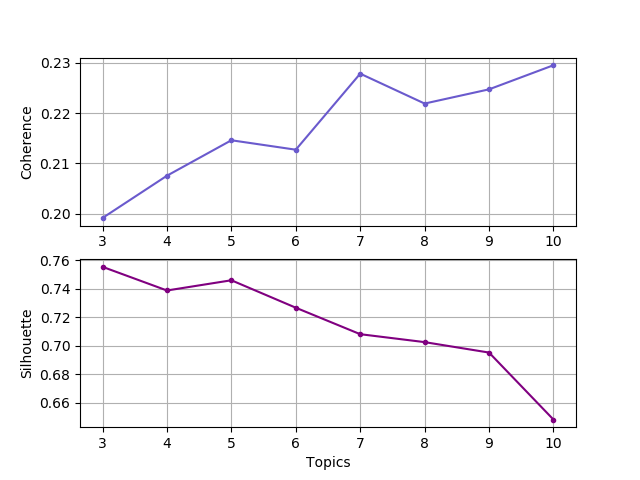
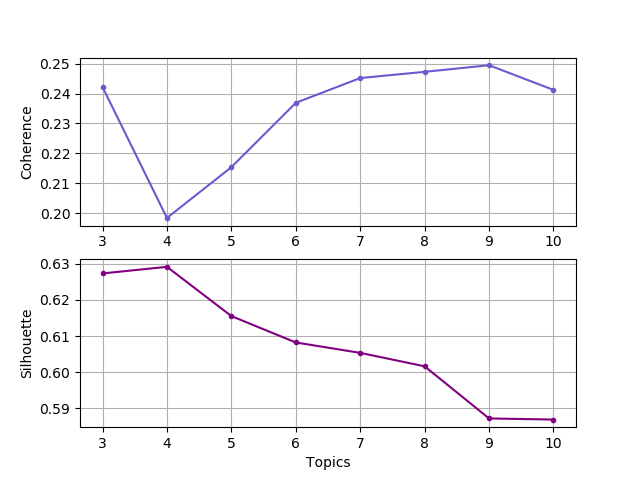
novos gráficos e mais tentativas de melhorar esse modelo

diff --git a/src/models/topics.py b/src/models/topics.py
@@ -21,7 +21,6 @@ from utils import *
 """
 constants
 """
-# UNIQUE_WORDS_THRESHOLD: int = 10
 N_MOST_FREQUENT_TO_REMOVE: int = 110
 
 """
@@ -40,7 +39,13 @@ def get_document_topics(lda_model, documents: list, id: int) -> list:
 	bow = dictionary.doc2bow(documents[id])
 	topics = lda_model.get_document_topics(bow)
 	topics.sort(key=(lambda pair: pair[1]), reverse=True) # sort by highest to lowest probabilities
+	return topics
 
+
+def get_paragraph_topics(lda_model, tokens: list) -> list:
+	bow = dictionary.doc2bow(tokens)
+	topics = lda_model.get_document_topics(bow)
+	topics.sort(key=(lambda pair: pair[1]), reverse=True) # sort by highest to lowest probabilities
 	return topics
 
 """
@@ -74,29 +79,40 @@ def get_topic_dists_dataframe(lda_model) -> pd.DataFrame:
 	assert len(vws) == len(topic_dists)
 	return vws
 
+def get_paragraph_topic_dists_dataframe(lda_model):
+	topic_dists: pd.Series = vwp.reset_index()["index"].apply(lambda i: get_paragraph_topics(lda_model, vwp.at[i, "text"]))
+	topic_dists.sort_index(axis=0)
+	vwps = pd.DataFrame({f"Topic {t}":[] for t in range(lda_model.num_topics)})
+	vwps.sort_index(axis=0)
+	lines = topic_dists.apply(lambda t: transform_topic_distribution(t, lda_model.num_topics))
+	vwps = vwps.append(list(lines), ignore_index=True)
+	assert len(vwps) == len(topic_dists)
+	return vwps
+
 """
 compute average silhouette score
 """
 def compute_avg_silhouette(topic_df: pd.DataFrame) -> float:
 	points = topic_df.values
-	dominant_topics = points.argmax(axis=1)
+	mains = points.argmax(axis=1)
 
-	return silhouette_score(points, dominant_topics)
+	return silhouette_score(points, mains)
 
 """
 plot silhouette scores per letter in corpus
+returns: average silhouette score
 """
-def plot_silhouette(lda_model, corpus) -> None:
+def plot_silhouette(lda_model, corpus) -> float:
 	n = 0
 	vws = get_topic_dists_dataframe(lda_model)
 	points = vws.values # matrix of shape (n_samples, n_topics)
-	dominant_topics = points.argmax(axis=1) # array of dominant topics
+	mains = points.argmax(axis=1) # array of dominant topics
 	fig, ax1 = plt.subplots(1, 1)
-	samples_silhouette_values = silhouette_samples(points, dominant_topics)
+	samples_silhouette_values = silhouette_samples(points, mains)
 	y_lower = 10 # ?
 
 	for i in range(lda_model.num_topics):
-		ith_topic_silhouette_values = samples_silhouette_values[dominant_topics == i]
+		ith_topic_silhouette_values = samples_silhouette_values[mains == i]
 		ith_topic_silhouette_values.sort()
 		size_topic_i = ith_topic_silhouette_values.shape[0]
 		y_upper = y_lower + size_topic_i
@@ -115,13 +131,14 @@ def plot_silhouette(lda_model, corpus) -> None:
 	ax1.set_xticks([-0.1, 0, 0.2, 0.4, 0.6, 0.8, 1]) # ?
 	plt.savefig(f"{SILHOUETTE_PLOTS_PATH}silhouette_lda{lda_model.num_topics}.png")
 	print("New silhouette plot generated and saved.")
+	plt.clf()
 
 	return silhouette_avg
 
 """
-function that saves most representative letters of each topic to text files for validation
+function that saves most representative letters of each topic to text files for manual validation
 """
-def save_representative_letters(lda_model, n_letters: int = 3):
+def save_representative_letters(lda_model, n_letters: int = 3) -> None:
 	vws = get_topic_dists_dataframe(lda_model)
 	vwo = pd.read_csv(VW_ORIGINAL, index_col="index")
 	vws["main"] = np.argmax([vws[f"Topic {t}"] for t in range(lda_model.num_topics)], axis=0)
@@ -133,14 +150,14 @@ def save_representative_letters(lda_model, n_letters: int = 3):
 		for i in range(n_letters):
 			letter_id = vws_t.index[i]
 			vwo_row: pd.Series = vwo.loc[letter_id]
-			vwo_row.to_csv(f"{LDA_LETTERS_PATH}/lda{lda_model.num_topics}_topic{t}_letter{i}.csv", sep=":", header=True)
+			vwo_row.to_csv(f"{LDA_LETTERS_PATH}lda{lda_model.num_topics}_topic{t}_letter{i}.csv", sep=":", header=True)
 
 	print("Saved most representative letters for LDA model.")
 
 """
 create dictionary and corpus of bags-of-words
 """
-def build_letter_corpus(vw: pd.DataFrame):
+def build_letter_corpus(vw: pd.DataFrame) -> (list, list, corpora.dictionary.Dictionary):
 	vw["text"] = vw["text"].apply(lambda tokens: [t for t in tokens if t != PARAGRAPH_DELIM]) # remove paragraph delim
 
 	vw = vw.sort_index(axis=0)
@@ -165,24 +182,26 @@ def build_letter_corpus(vw: pd.DataFrame):
 """
 function that builds an LDA model and returns the model and some evaluation metrics
 """
-def model(n_topics, saved=False):
+def model(n_topics, beta=None, saved=False) -> dict:
 	print(f"Building LDA model for {n_topics} topics.")
+	suffix = f"beta{beta}" if beta is not None else ""
 
 	if saved:
-		lda = LdaMulticore.load(f"{TRAINED_LDA}{n_topics}")
-		print(f"Trained LDA model with {n_topics} loaded successfully.")
+		lda = LdaMulticore.load(f"{TRAINED_LDA}{n_topics}{suffix}")
+		print(f"Trained LDA model with {n_topics} topics loaded successfully.")
 
 	else:
 		lda = LdaMulticore(
 			corpus,
 			num_topics=n_topics,
 			id2word=dictionary,
-			passes=20,
+			passes=10,
+			eta=beta,
 			random_state=1,
 			workers=3
 		)
 
-		lda.save(f"{TRAINED_LDA}{n_topics}")
+		lda.save(f"{TRAINED_LDA}{n_topics}{suffix}")
 		print(f"LDA model with {n_topics} topics trained and saved successfully.")
 
 	"""
@@ -192,7 +211,6 @@ def model(n_topics, saved=False):
 	print(f"Coherence score: {coherence}") # the higher the better
 
 	avg_silhouette = plot_silhouette(lda, corpus)
-	save_representative_letters(lda, 5)
 
 	"""
 	prepare and save pyLDAvis visualization
@@ -210,7 +228,7 @@ def model(n_topics, saved=False):
 """
 function to compare LDA models built with the given N values
 """
-def compare_models(candidate_n_topics: list):
+def compare_models(candidate_n_topics: list) -> pd.DataFrame:
 	results = pd.DataFrame({"topics": [], "coherence": [], "silhouette": []})
 
 	for n_topics in candidate_n_topics:
@@ -225,13 +243,12 @@ def compare_models(candidate_n_topics: list):
 	results["topics"] = pd.to_numeric(results["topics"], downcast="integer")
 
 	log(results, "comparison_results")
-	
 	return results
 
 """
 plot coherence and silhouette scores for candidate models
 """
-def plot_metrics(results: list):
+def plot_metrics(results: list) -> None:
 	fig, (ax1, ax2) = plt.subplots(2, 1)
 	ax1.plot(results["topics"], results["coherence"], label="coherence score", marker=".", color="slateblue")
 	ax2.plot(results["topics"], results["silhouette"], label = "avg silhouette score", marker=".", color="purple")
@@ -242,10 +259,12 @@ def plot_metrics(results: list):
 	ax2.grid(True)
 	plt.savefig(f"{GRAPHS_PATH}metrics_per_num_topics.png")
 
-
-def save_topic_wordclouds(lda_model):
+"""
+generates and saves wordclouds per topic of a given LDA model
+"""
+def save_topic_wordclouds(lda_model) -> None:
 	for i in range(lda_model.num_topics):
-		letters: pd.Series = vw[vw["dominant_topic"] == i]["text"]
+		letters: pd.Series = vw[vw["main"] == i]["text"]
 		all_letters = concat_all_letters(letters)
 		wordcloud = WordCloud(width=500, height=400, background_color="white", max_words=100).generate(all_letters)
 		plt.imshow(wordcloud, interpolation="bilinear")
@@ -254,6 +273,96 @@ def save_topic_wordclouds(lda_model):
 		plt.clf()
 
 	print("Saved topic wordclouds for LDA model.")
+
+
+"""
+function that includes main topic column in vw dataframe, or -1 if all topics have the same probability
+"""
+def set_main_topics(vw: pd.DataFrame, vws: pd.DataFrame) -> (pd.DataFrame, pd.DataFrame):
+
+	# function that verifies if all elements in an array are equal
+	def equal_values(v: np.ndarray) -> bool:
+		v = np.sort(v, axis=0)
+		return v[0] == v[len(v)-1] # if first and last elements of sorted array are equal, the array only has equal elements
+
+	vws["main"] = np.argmax([vws[f"Topic {t}"] for t in range(n_topics)], axis=0)
+	prob_cols: list = [col for col in vws.columns if "Topic" in col]
+	vws.loc[vws.apply(lambda row: equal_values([row[col] for col in prob_cols]), axis=1), "main"] = -1
+
+	vw["main"] = vws["main"]
+	return vw, vws
+
+"""
+function that makes a bar graph of topic frequencies per years
+receives: vw dataframe with "main" topic column
+"""
+def plot_topics_per_year(vw: pd.DataFrame) -> None:
+	assert "main" in vw.columns
+
+	yearly: pd.DataFrame = vw[(vw["main"] != -1) & vw["year"].notnull()][["year", "main"]]
+	yearly = yearly.sort_values(by="year")
+	yearly["year"] = pd.to_numeric(yearly["year"], downcast="integer")
+
+	for i in range(n_topics):
+		yearly[str(i)] = yearly["year"].apply(lambda y: len(yearly[(yearly["year"] == y) & (yearly["main"] == i)]))
+
+	yearly = yearly.drop(["main"], axis=1).drop_duplicates(subset=["year"], keep="first")
+
+	fig, ax = plt.subplots(1, 1, figsize=(14,7))
+
+	xrange = range(len(years))
+	years = list(yearly["year"])
+	colors = ["indianred", "gold", "lightseagreen"]
+	labels = [f"Topic {i}" for i in range(n_topics)]
+
+	ax.bar(x=xrange, height=yearly["0"], width=0.8, bottom=0, color=colors[0], align="center", label=labels[0])
+	ax.bar(x=xrange, height=yearly["1"], width=0.8, bottom=list(yearly["0"]), color=colors[1], align="center", label=labels[1])
+	ax.bar(x=xrange, height=yearly["2"], width=0.8, bottom=list(yearly["0"]+yearly["1"]), color=colors[2], align="center", label=labels[2])
+	# TODO: make the damn loop work ?????
+
+	plt.xticks(ticks=range(len(years)), labels=years, rotation="vertical")
+	plt.legend()
+	plt.grid(True, axis="x")
+	plt.savefig(f"{GRAPHS_PATH}topic_frequency_per_year.png")
+	plt.clf()
+
+"""
+function that makes 12 pie charts for topic frequencies in letters to the top 12 recipients
+receives: vw dataframe with "main" topic column
+"""
+def plot_topics_per_recipient(vw: pd.DataFrame) -> None:
+	assert "main" in vw.columns
+
+	recs = vw[(vw["recipient"].notnull()) & (vw["main"] != -1)][["recipient", "main"]]
+
+	for i in range(n_topics):
+		recs[str(i)] = recs["recipient"].apply(lambda rec: len(recs[(recs["recipient"] == rec) & (recs["main"] == i)]))
+
+	recs = recs.drop(["main"], axis=1).drop_duplicates(subset=["recipient"], keep="first")
+
+	top_recs = vw[vw["recipient"].notnull()][["recipient"]]
+	top_recs = top_recs.reset_index().groupby(["recipient"]).count()[["index"]].rename(columns={"index": "num_letters"})
+	top_recs = top_recs.sort_values(by="num_letters", ascending=False)
+
+	recs = recs.merge(top_recs, on="recipient", how="left")
+	top_recs_list = list(recs.sort_values(by="num_letters", ascending=False)["recipient"][:12])
+
+	fig, axs = plt.subplots(3, 4, figsize=(14, 9))
+	colors = ["indianred", "gold", "lightseagreen"]
+	columns = [str(i) for i in range(n_topics)]
+
+	it = 0
+	for i in range(3):
+		for j in range(4):
+			rec: str = top_recs_list[it]
+			print(rec)
+			row = recs[recs["recipient"] == rec][columns]
+			values = [int(row[col]) for col in row.columns]
+			axs[i,j].pie(values, colors=colors, labels=columns, labeldistance=0.5, textprops={"color": "white"})
+			axs[i,j].set_xlabel(rec)
+			it += 1
+
+	plt.savefig(f"{GRAPHS_PATH}topic_frequency_per_recipient.png")
 
 
 # ----------------------------------------------------------------------------------------------
@@ -265,9 +374,8 @@ letters, corpus, dictionary = build_letter_corpus(vw)
 """
 compare models
 """
-results = compare_models([3, 4, 5, 6, 7, 8, 9, 10])
-plot_metrics(results)
-
+# results = compare_models([3, 4, 5, 6, 7, 8, 9, 10])
+# plot_metrics(results)
 
 """
 evaluate 3-topic model
@@ -275,13 +383,16 @@ evaluate 3-topic model
 
 n_topics = 3 # selected model
 lda = model(n_topics, saved=True)["model"]
-# lda = LdaMulticore.load(f"{TRAINED_LDA}{n_topics}")
+
 vws = get_topic_dists_dataframe(lda)
-vws["dominant_topic"] = np.argmax([vws[f"Topic {t}"] for t in range(n_topics)], axis=0)
+vw, vws = set_main_topics(vw, vws)
 
 vw = vw[["recipient", "year", "place", "text"]].copy()
 dictionary_tokens: list = list(dictionary.token2id.keys())
 vw["text"] = vw["text"].apply(lambda tokens: [t for t in tokens if t in dictionary_tokens]) # remove words not in dict (most frequent, removed earlier)
-vw["dominant_topic"] = vws["dominant_topic"]
 
-save_topic_wordclouds(lda)
+
+# save_representative_letters(lda, 5)
+# save_topic_wordclouds(lda)
+# plot_topics_per_year(vw)
+# plot_topics_per_recipient(vw)

diff --git a/src/features/preprocessing.py b/src/features/preprocessing.py
@@ -25,19 +25,8 @@ def remove_brackets(text: str) -> str:
 		return re.sub(brackets, "", text)
 
 """
-function to remove non-alphabetic symbols from string
+function to replace non-alphabetic symbols in string with spaces
 """
-def remove_non_alphabetic(text: str, replace_specifics=True, remove_rest=True) -> str:
-	if pd.notnull(text):
-		if replace_specifics:
-			to_replace = r'[\-—\+\n\r\t\’”]'
-			text = re.sub(to_replace, " ", text) # replace these symbols with spaces
-		if remove_rest:
-			to_remove = r'[^a-zA-Z§ ]'
-			text = re.sub(to_remove, "", text) # remove all unwanted symbols left
-		text = re.sub(r'r) +', " ", text) # remove extra whitespace
-		return text
-	
 def replace_non_alphabetic(text: str):
 	to_replace = r'[\-—\+\n\r\t\’”]'
 	text = re.sub(to_replace, " ", text) # replace these symbols with spaces
@@ -45,6 +34,9 @@ def replace_non_alphabetic(text: str):
 
 	return text
 
+"""
+function to remove non alphabetic symbols from tokens in tokens list
+"""
 def remove_non_alphabetic(tokens: list):
 	to_remove = r'[^a-zA-Z§ ]'
 	tokens = [re.sub(to_remove, "", t) for t in tokens]
@@ -122,9 +114,13 @@ def remove_stopwords(tokens: list) -> list:
 		return tokens
 	
 	# based on nltk english stopwords list but modified
-	stopwords = ['most', 'over', 'until', "shouldnt", 'only', 'all', 'o', 'herself', 'same', 'ma', 'i', 'will', 'now', 'these', 'needn', 'out', 'yours', 'hadn', 'where', 'during', 'above', 'very', 'aren', 'off', 'when', 'once', 'm', 'don', 'then', 'why', 'its', 'weren', "couldn't", 'him', "mightn't", 't', 'to', 'into', 'been', 'wasn', 'wouldn', 'won', 'are', 'whom', 'y', 'more', 'some', 'nor', 'by', 'being', "shes", 'a', 'about', 'he', 'below', 'my', 'it', "needn't", 'they', 'does', 'this', 'any', "wouldnt", 'and', 'ours', "havent", 'you', 'should', 'in', "isn't", 'each', 's', "won't", "don't", 'them', 'himself', 'if', 'so', 'at', 'mustn', 'themselves', 'further', 'myself', 'ain', 'she', 'an', "werent", 'our', 'what', 'on', 'doing', 'll', 'isn', 'yourself', "its", 'too', "arent", 'couldn', 'just', 'we', "hasnt", 'have', "didnt", 'is', 'the', 'for', 've', 'do', 'few', 'hasn', 'those', 'was', 'such', 'which', 'didn', 'because', 'of', 'hers', 'not', "shouldve", 'me', 'were', 'with', 'itself', 'doesn', 'shan', 'or', 'both', 'can', 'has', 'did', 'while', 'no', "youd", 'be', "hadnt", 'but', 'shouldn', 'his', 'their', 're', 'again', 'how', 'your', 'here', 'before', 'through', 'who', 'up', 'between', 'yourselves', "mustnt", 'having', 'her', 'other', 'theirs', 'am', 'haven', 'against', 'as', 'had', "doesnt", 'mightn', "youre", 'from', 'under', 'than', "youve", 'd', 'down', 'ourselves', 'there', "wasnt", "youll", 'that', 'own', 'after', "one", "dont", "im", "ive", "without", "with", "till", "must", "get", "neither", "also", "could", "couldnt", "would", "wouldnt", "wont", "might", "thats", "weve", "mr", "mrs", "let", "yr", "yrs", "x", "upon", "every", "anyhow", "there", "here", "l", "th", "b", "av", "do"] # TODO: revise (most will have already been thrown out because of POS tags)
+	# stopwords = ['most', 'over', 'until', "shouldnt", 'only', 'all', 'o', 'herself', 'same', 'ma', 'i', 'will', 'now', 'these', 'needn', 'out', 'yours', 'hadn', 'where', 'during', 'above', 'very', 'aren', 'off', 'when', 'once', 'm', 'don', 'then', 'why', 'its', 'weren', "couldn't", 'him', "mightn't", 't', 'to', 'into', 'been', 'wasn', 'wouldn', 'won', 'are', 'whom', 'y', 'more', 'some', 'nor', 'by', 'being', "shes", 'a', 'about', 'he', 'below', 'my', 'it', 'they', 'does', 'this', 'any', "wouldnt", 'and', 'ours', "havent", 'you', 'should', 'in', "isn't", 'each', 's', "won't", "don't", 'them', 'himself', 'if', 'so', 'at', 'mustn', 'themselves', 'further', 'myself', 'ain', 'she', 'an', "werent", 'our', 'what', 'on', 'doing', 'll', 'isn', 'yourself', "its", 'too', "arent", 'couldn', 'just', 'we', "hasnt", 'have', "didnt", 'is', 'the', 'for', 've', 'do', 'few', 'hasn', 'those', 'was', 'such', 'which', 'didn', 'because', 'of', 'hers', 'not', "shouldve", 'me', 'were', 'with', 'itself', 'doesn', 'shan', 'or', 'both', 'can', 'has', 'did', 'while', 'no', "youd", 'be', "hadnt", 'but', 'shouldn', 'his', 'their', 're', 'again', 'how', 'your', 'here', 'before', 'through', 'who', 'up', 'between', 'yourselves', "mustnt", 'having', 'her', 'other', 'theirs', 'am', 'haven', 'against', 'as', 'had', "doesnt", 'mightn', "youre", 'from', 'under', 'than', "youve", 'd', 'down', 'ourselves', 'there', "wasnt", "youll", 'that', 'own', 'after', "one", "dont", "im", "ive", "without", "with", "till", "must", "get", "neither", "also", "could", "couldnt", "would", "wouldnt", "wont", "might", "thats", "mr", "mrs", "let", "yr", "yrs", "x", "upon", "every", "anyhow", "there", "here", "l", "th", "b", "av", "do", "re", "ve"]
 
-	new_tokens = [t for t in tokens if t not in stopwords]
+	stopwords = ["most", "over", "until", "only", "all", "herself", "same", "t", "o", "re", "ve", "b", "th", "l", "here", "do", "did", "out", "need", "your", "yours", "yrs", "yr", "v", "vw", "m", "ll", "may", "might", "shall", "where", "still", "too", "are", "its", "it", "could", "just", "we", "us", "hers", "her", "him", "his", "you", "yourself", "had", "has", "were", "with", "without", "under", "than", "that", "again", "affate", "would", "will", "one", "i", "till", "must", "get", "neither", "also", "mr", "mrs", "miss", "any", "every", "there", "here", "x", "their", "theirs", "itself", "below", "my", "mine", "them", "this", "more", "less", "some", "nor", "by", "why", "because", "to", "into", "been", "ours", "each", "can", "both", "shan", "or", "and", "while", "down", "few", "for", "should", "ma", "now", "these", "during", "very", "off", "when", "once", "whom", "won", "y", "being", "a", "about", "he", "they", "does", "in", "isn", "himself", "if", "so", "at", "mustn", "themselves", "further", "myself", "ain", "she", "on", "doing", "couldn", "hasn", "what", "couldn", "have", "is", "was", "such", "which", "not", "having", "other", "am", "against", "doesn", "mightn", "youre", "from", "youve", "ourselves", "youll", "let", "upon", "anyhow", "av", "thats", "oh", "else", "least", "enough", "s", "dear"]
+
+	names = ["virginia", "vita", "leonard", "nessa", "nelly", "duncan", "ethel", "violet", "bell", "vanessa", "clive", "lytton", "quentin", "roger", "tom", "ottoline", "ott", "morrell", "julian", "gordon", "goldie", "desmond", "bunny", "charleston", "angelica", "square", "tavistock", "morgan", "sibyl", "sybil", "colefax", "maynard", "john", "sackville", "harold", "nicolson", "lydia", "adrian", "mary"]
+
+	new_tokens = [t for t in tokens if t not in stopwords and t not in names]
 	return new_tokens
 
 """
@@ -156,6 +152,8 @@ reduction:
 2. pos-tagging
 3. lemmatization
 4. filtering by pos-tags
+5. stop word removal
+6. final cleanup of non-alphabetic symbols
 """
 def reduction_pipeline(text: str, pos_whitelist: list) -> list:
 	text = text.lower()
@@ -171,7 +169,8 @@ def reduction_pipeline(text: str, pos_whitelist: list) -> list:
 	pos_whitelist = [mapping[tag] for tag in pos_whitelist]
 	filtered = [token for (token, pos) in lemmatized if pos in pos_whitelist]
 	
-	cleaned = remove_non_alphabetic(filtered) # remove remaining non-alphabetic symbols
+	cleaned = remove_stopwords(filtered) # remove remaining stop words
+	cleaned = remove_non_alphabetic(cleaned) # remove remaining non-alphabetic symbols
 	return cleaned
 
 

diff --git a/src/utils/utils.py b/src/utils/utils.py
@@ -56,6 +56,7 @@ def log(something, filename: str):
 	filepath = f"{EXEC_LOGS_PATH}{filename}.txt"
 
 	with open(filepath, encoding="utf8", mode="w") as file:
-		file.write(printable)
+		_ = file.write(printable)
+		print(f"Logged: {filepath}")
 	
 	return
